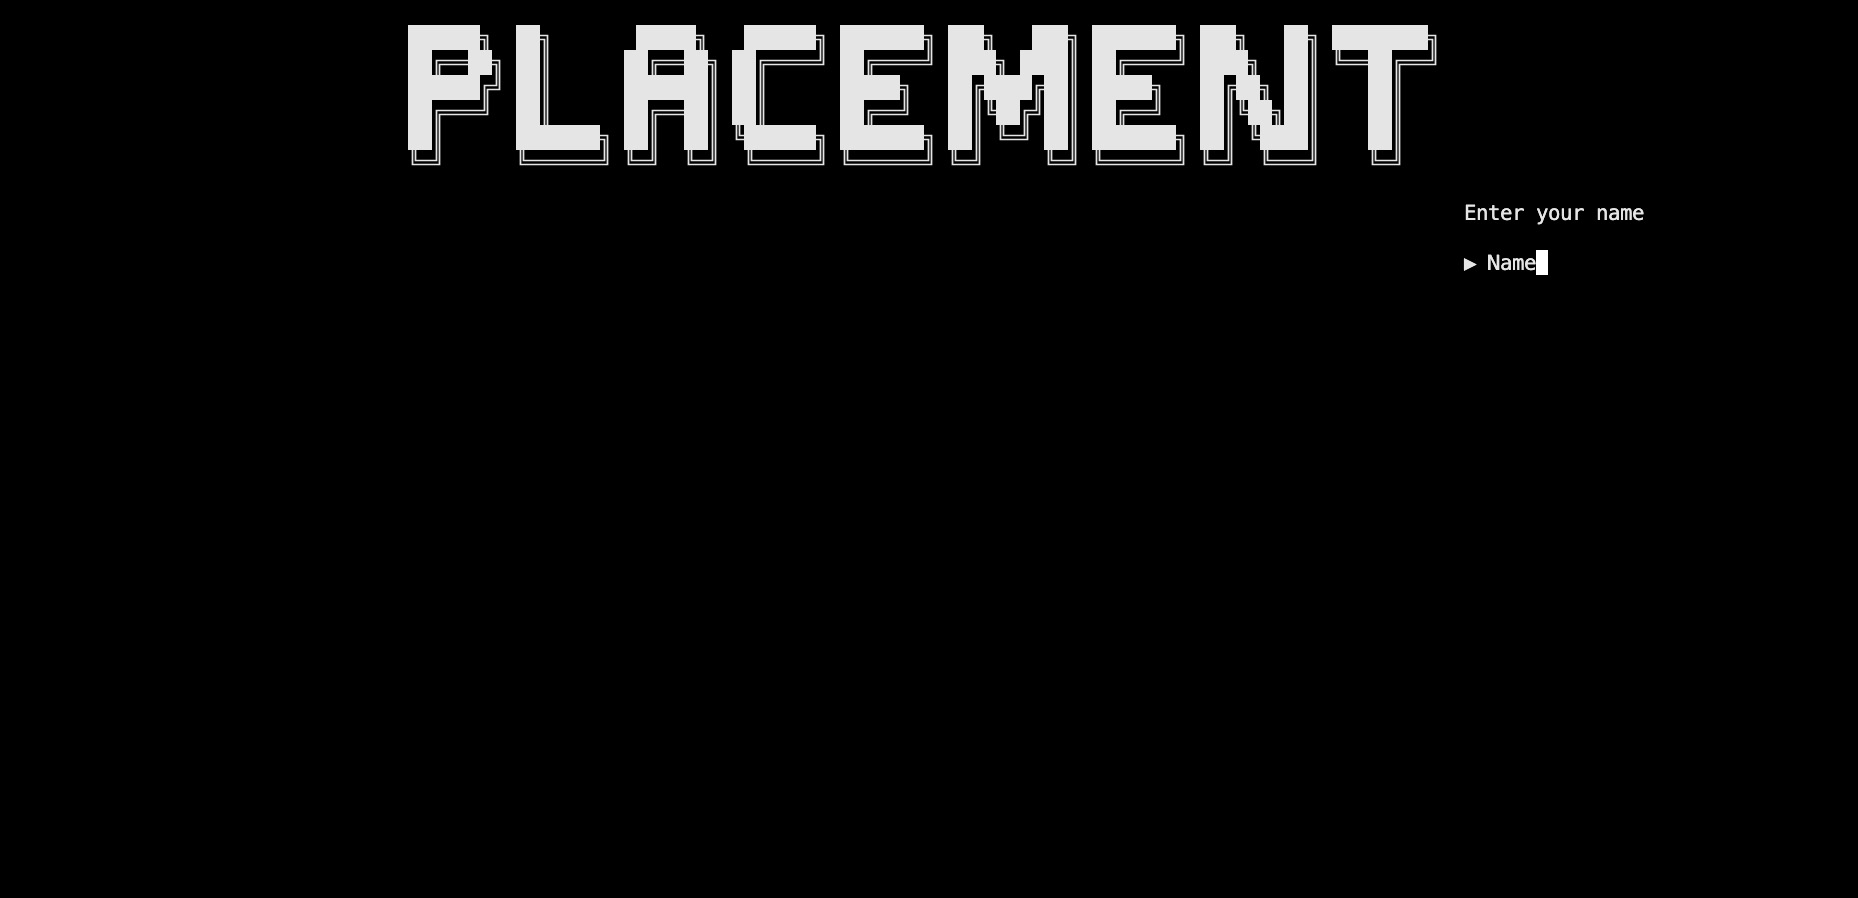
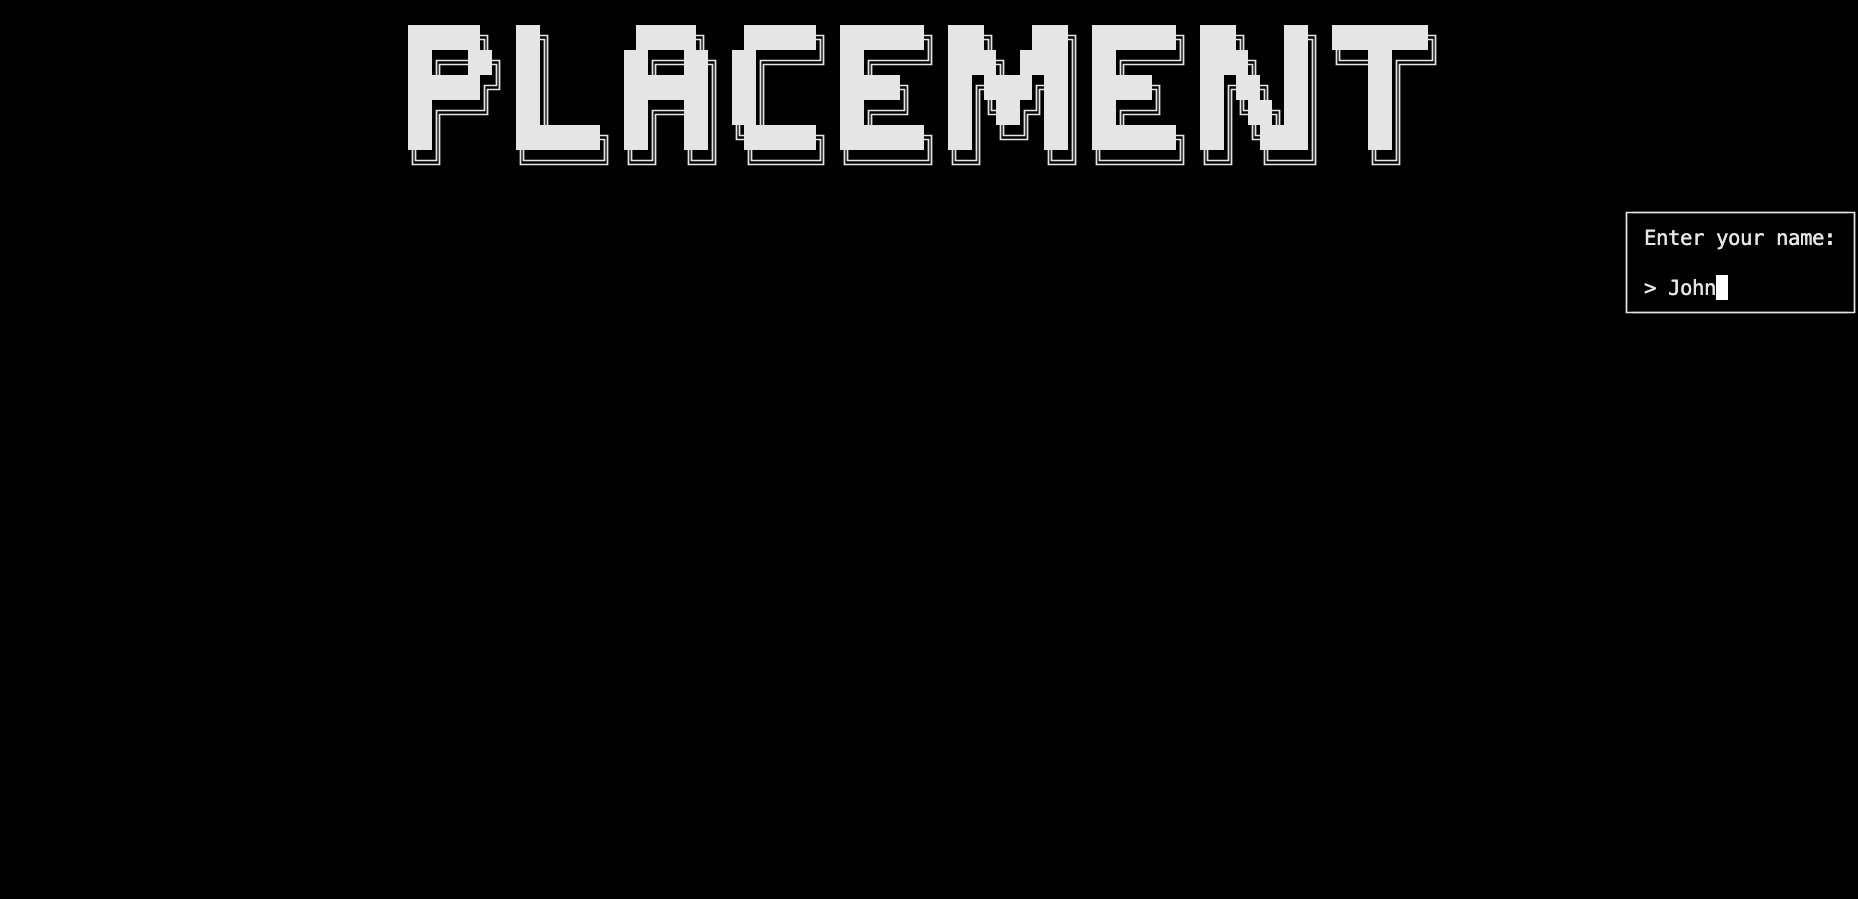
📖 update element options tutorial | rename SingleRounded to SingleRound

diff --git a/testing/models/Borders.Tests.cs b/testing/models/Borders.Tests.cs
@@ -51,7 +51,7 @@ public class UnitTestsBorders
     [TestMethod]
     [TestCategory("Borders")]
     [DataRow(BordersType.SingleStraight, '┌')]
-    [DataRow(BordersType.SingleRounded, '╭')]
+    [DataRow(BordersType.SingleRound, '╭')]
     [DataRow(BordersType.SingleBold, '┏')]
     [DataRow(BordersType.DoubleStraight, '╔')]
     [DataRow(BordersType.ASCII, '+')]
@@ -70,7 +70,7 @@ public class UnitTestsBorders
     [TestMethod]
     [TestCategory("Borders")]
     [DataRow(BordersType.SingleStraight, '┐')]
-    [DataRow(BordersType.SingleRounded, '╮')]
+    [DataRow(BordersType.SingleRound, '╮')]
     [DataRow(BordersType.SingleBold, '┓')]
     [DataRow(BordersType.DoubleStraight, '╗')]
     [DataRow(BordersType.ASCII, '+')]
@@ -89,7 +89,7 @@ public class UnitTestsBorders
     [TestMethod]
     [TestCategory("Borders")]
     [DataRow(BordersType.SingleStraight, '└')]
-    [DataRow(BordersType.SingleRounded, '╰')]
+    [DataRow(BordersType.SingleRound, '╰')]
     [DataRow(BordersType.SingleBold, '┗')]
     [DataRow(BordersType.DoubleStraight, '╚')]
     [DataRow(BordersType.ASCII, '+')]
@@ -108,7 +108,7 @@ public class UnitTestsBorders
     [TestMethod]
     [TestCategory("Borders")]
     [DataRow(BordersType.SingleStraight, '┘')]
-    [DataRow(BordersType.SingleRounded, '╯')]
+    [DataRow(BordersType.SingleRound, '╯')]
     [DataRow(BordersType.SingleBold, '┛')]
     [DataRow(BordersType.DoubleStraight, '╝')]
     [DataRow(BordersType.ASCII, '+')]
@@ -127,7 +127,7 @@ public class UnitTestsBorders
     [TestMethod]
     [TestCategory("Borders")]
     [DataRow(BordersType.SingleStraight, '─')]
-    [DataRow(BordersType.SingleRounded, '─')]
+    [DataRow(BordersType.SingleRound, '─')]
     [DataRow(BordersType.SingleBold, '━')]
     [DataRow(BordersType.DoubleStraight, '═')]
     [DataRow(BordersType.ASCII, '-')]
@@ -146,7 +146,7 @@ public class UnitTestsBorders
     [TestMethod]
     [TestCategory("Borders")]
     [DataRow(BordersType.SingleStraight, '│')]
-    [DataRow(BordersType.SingleRounded, '│')]
+    [DataRow(BordersType.SingleRound, '│')]
     [DataRow(BordersType.SingleBold, '┃')]
     [DataRow(BordersType.DoubleStraight, '║')]
     [DataRow(BordersType.ASCII, '|')]
@@ -165,7 +165,7 @@ public class UnitTestsBorders
     [TestMethod]
     [TestCategory("Borders")]
     [DataRow(BordersType.SingleStraight, '┬')]
-    [DataRow(BordersType.SingleRounded, '┬')]
+    [DataRow(BordersType.SingleRound, '┬')]
     [DataRow(BordersType.SingleBold, '┳')]
     [DataRow(BordersType.DoubleStraight, '╦')]
     [DataRow(BordersType.ASCII, '+')]
@@ -184,7 +184,7 @@ public class UnitTestsBorders
     [TestMethod]
     [TestCategory("Borders")]
     [DataRow(BordersType.SingleStraight, '┴')]
-    [DataRow(BordersType.SingleRounded, '┴')]
+    [DataRow(BordersType.SingleRound, '┴')]
     [DataRow(BordersType.SingleBold, '┻')]
     public void Borders_Bottom(BordersType type, char expected)
     {
@@ -201,7 +201,7 @@ public class UnitTestsBorders
     [TestMethod]
     [TestCategory("Borders")]
     [DataRow(BordersType.SingleStraight, '├')]
-    [DataRow(BordersType.SingleRounded, '├')]
+    [DataRow(BordersType.SingleRound, '├')]
     public void Borders_Left(BordersType type, char expected)
     {
         // Arrange
@@ -217,7 +217,7 @@ public class UnitTestsBorders
     [TestMethod]
     [TestCategory("Borders")]
     [DataRow(BordersType.SingleStraight, '┤')]
-    [DataRow(BordersType.SingleRounded, '┤')]
+    [DataRow(BordersType.SingleRound, '┤')]
     public void Borders_Right(BordersType type, char expected)
     {
         // Arrange
@@ -233,7 +233,7 @@ public class UnitTestsBorders
     [TestMethod]
     [TestCategory("Borders")]
     [DataRow(BordersType.SingleStraight, '┼')]
-    [DataRow(BordersType.SingleRounded, '┼')]
+    [DataRow(BordersType.SingleRound, '┼')]
     public void Borders_Cross(BordersType type, char expected)
     {
         // Arrange
@@ -272,11 +272,11 @@ public class UnitTestsBorders
         Borders borders = new Borders();
 
         // Act
-        borders.UpdateBordersType(BordersType.SingleRounded);
+        borders.UpdateBordersType(BordersType.SingleRound);
         BordersType actual = borders.Type;
 
         // Assert
-        Assert.AreEqual(BordersType.SingleRounded, actual);
+        Assert.AreEqual(BordersType.SingleRound, actual);
     }
     #endregion
 }

diff --git a/src/ConsoleAppVisuals/models/Borders.cs b/src/ConsoleAppVisuals/models/Borders.cs
@@ -112,7 +112,7 @@ public class Borders
         if (
             type
             is BordersType.SingleStraight
-                or BordersType.SingleRounded
+                or BordersType.SingleRound
                 or BordersType.SingleBold
                 or BordersType.DoubleStraight
                 or BordersType.ASCII
@@ -150,7 +150,7 @@ public class Borders
         string border = _type switch
         {
             BordersType.SingleStraight => SINGLE_STRAIGHT,
-            BordersType.SingleRounded => SINGLE_ROUNDED,
+            BordersType.SingleRound => SINGLE_ROUNDED,
             BordersType.SingleBold => SINGLE_BOLD,
             BordersType.DoubleStraight => DOUBLE_STRAIGHT,
             BordersType.ASCII => ASCII,

diff --git a/testing/elements/interactive/Prompt.Tests.cs b/testing/elements/interactive/Prompt.Tests.cs
@@ -311,9 +311,9 @@ public class UnitTestPrompt
         var prompt = new Prompt("What is your name?", "John Doe");
 
         // Act
-        prompt.UpdateBordersType(BordersType.SingleRounded);
+        prompt.UpdateBordersType(BordersType.SingleRound);
         var actual = prompt.BordersType;
-        var expected = BordersType.SingleRounded;
+        var expected = BordersType.SingleRound;
 
         // Assert
         Assert.AreEqual(expected, actual);

diff --git a/testing/elements/passive/TableView.Tests.cs b/testing/elements/passive/TableView.Tests.cs
@@ -478,10 +478,10 @@ public class UnitTestTableView
             );
 
         // Act
-        table.UpdateBordersType(BordersType.SingleRounded);
+        table.UpdateBordersType(BordersType.SingleRound);
 
         // Assert
-        Assert.AreEqual(BordersType.SingleRounded, table.BordersType);
+        Assert.AreEqual(BordersType.SingleRound, table.BordersType);
     }
 
     [TestMethod]

diff --git a/src/ConsoleAppVisuals/enums/BordersType.cs b/src/ConsoleAppVisuals/enums/BordersType.cs
@@ -30,7 +30,7 @@ public enum BordersType
     /// <remarks>
     /// Not supported on PowerShell (Windows).
     /// </remarks>
-    SingleRounded,
+    SingleRound,
 
     /// <summary>
     /// Single line borders with bold lines (┏┓┗┛━┃┳┻┣┫╋)

diff --git a/docs/introduction/elements_options.md b/docs/introduction/elements_options.md
@@ -5,7 +5,7 @@ In this section, you will learn:
 - How to deactivate/ remove elements
 - How to use the `ElementsDashboard` inspector element
 - How to use the `HeightSpacer` element
-- Discover `Placement` and `TextAlignment` enumerations
+- Discover `Placement`, `TextAlignment` and `BordersType` enumerations
 - How to use the full potential of the element options
 
 ## Setup
@@ -146,7 +146,7 @@ Window.Close();
 
 In all the tutorials and the [example project](https://github.com/MorganKryze/ConsoleAppVisuals/blob/main/example/) the elements definitions are simplified and do not declare all the arguments available. To see all the arguments available for each element, you can consult the [references documentation](https://morgankryze.github.io/ConsoleAppVisuals/references/index.html).
 
-Most of them are specific with generic type (`string`, `int`, `bool`...) and are used to customize the element. But some of them are common to all elements and are used to place the element on the window. These are the `Placement` and `TextAlignment` enumerations.
+Most of them are specific with generic type (`string`, `int`, `bool`, `List`, ...) and are used to customize the element. But some of them are common to all elements and are used to place the element on the window. These are the `Placement` and `TextAlignment` enumerations.
 
 ### `Placement`
 
@@ -158,7 +158,7 @@ The available values are:
 
 ![TopLeft](../assets/img/jpg/elements_options/topleft.jpg)
 
-- `TopCenter`: x(line) = 0, y(char) = windowWidth / 2
+- `TopCenter`: (Default) x(line) = 0, y(char) = windowWidth / 2
 
 ![TopCenter](../assets/img/jpg/elements_options/topcenter.jpg)
 
@@ -178,7 +178,7 @@ The available values are:
 > To choose the placement of an element, you can either set it from the constructor or use the `UpdatePlacement()` method after creating the element.
 >
 > ```csharp
-> Prompt prompt = new Prompt("Enter your name", "Name", Placement.TopCenter);
+> Prompt prompt = new Prompt("Enter your name:", "John", Placement.TopCenter);
 > // or
 > prompt.UpdatePlacement(Placement.TopCenter);
 > ```
@@ -191,7 +191,7 @@ The `TextAlignment` enumeration is used to align the text in a string. It is use
 
 ![Left](../assets/img/jpg/elements_options/left.jpg)
 
-- `Center`: Align the text to the center
+- `Center`: (Default) Align the text to the center
 
 ![Center](../assets/img/jpg/elements_options/center.jpg)
 
@@ -206,6 +206,45 @@ The `TextAlignment` enumeration is used to align the text in a string. It is use
 > EmbedText embedText = new EmbedText(new List<string>(){"Demo", "This is a message"},"OK ▶",TextAlignment.Center);
 > // or
 > embedText.UpdateTextAlignment(TextAlignment.Center);
+> ```
+
+### `BordersType`
+
+The `BordersType` enumeration is used to set the borders of an element. It is used by the table and embed elements from the library. Here are the available values:
+
+- `SingleStraight`: (Default) Single lines with straight corners
+
+![SingleStraight](../assets/img/jpg/elements_options/straight.jpg)
+
+- `SingleRound`: Single lines with round corners
+
+![SingleRound](../assets/img/jpg/elements_options/round.jpg)
+
+- `SingleBold`: Single bold lines with straight corners
+
+![SingleBold](../assets/img/jpg/elements_options/bold.jpg)
+
+- `DoubleStraight`: Double lines with straight corners
+
+![DoubleStraight](../assets/img/jpg/elements_options/double.jpg)
+
+- `ASCII`: ASCII basic characters for the borders (`+`, `-`, `|` only)
+
+![ASCII](../assets/img/jpg/elements_options/ascii.jpg)
+
+> [!WARNING]
+> The following types are not available for Visual Studio or Windows Command Prompt:
+>
+> - `SingleRound`
+> - `SingleBold`
+
+> [!NOTE]
+> To choose the border type of an element, you can either set it from the constructor or use the `UpdateBordersType()` method after creating the element (some elements may not have this method if the border type is not used in it so refer to the references documentation to get that specific information).
+>
+> ```csharp
+> ElementsDashboard dashboard = new ElementsDashboard(Placement.TopCenter, BordersType.SingleStraight);
+> // or
+> dashboard.UpdateBordersType(BordersType.SingleStraight);
 > ```
 
 ## Conclusion
